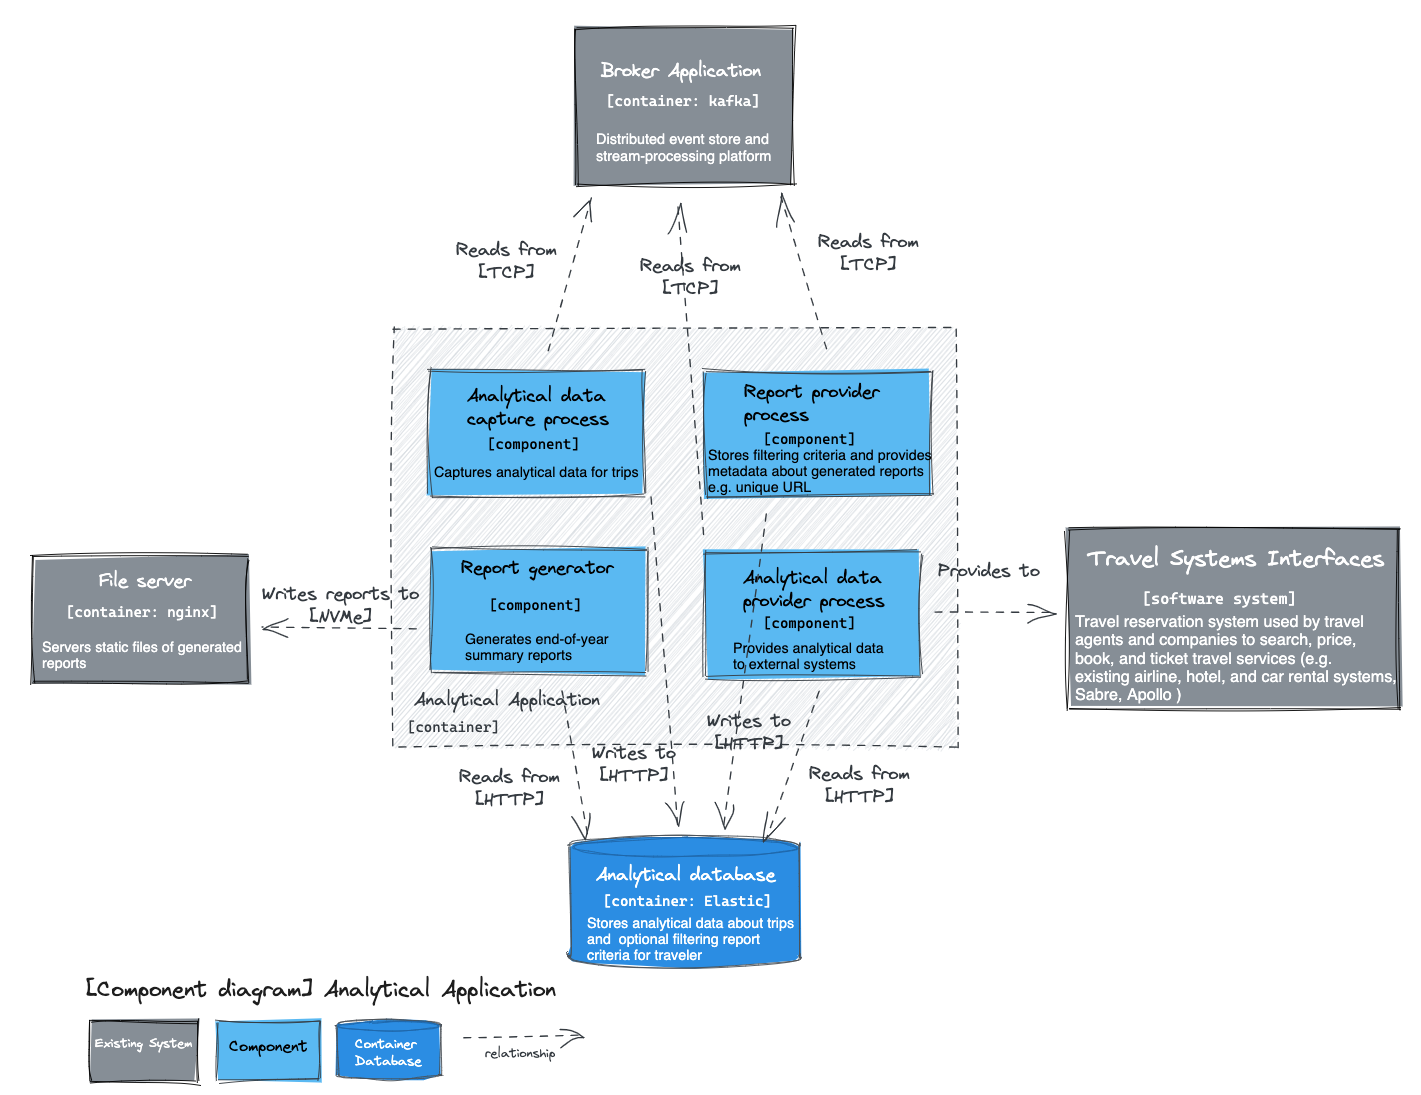
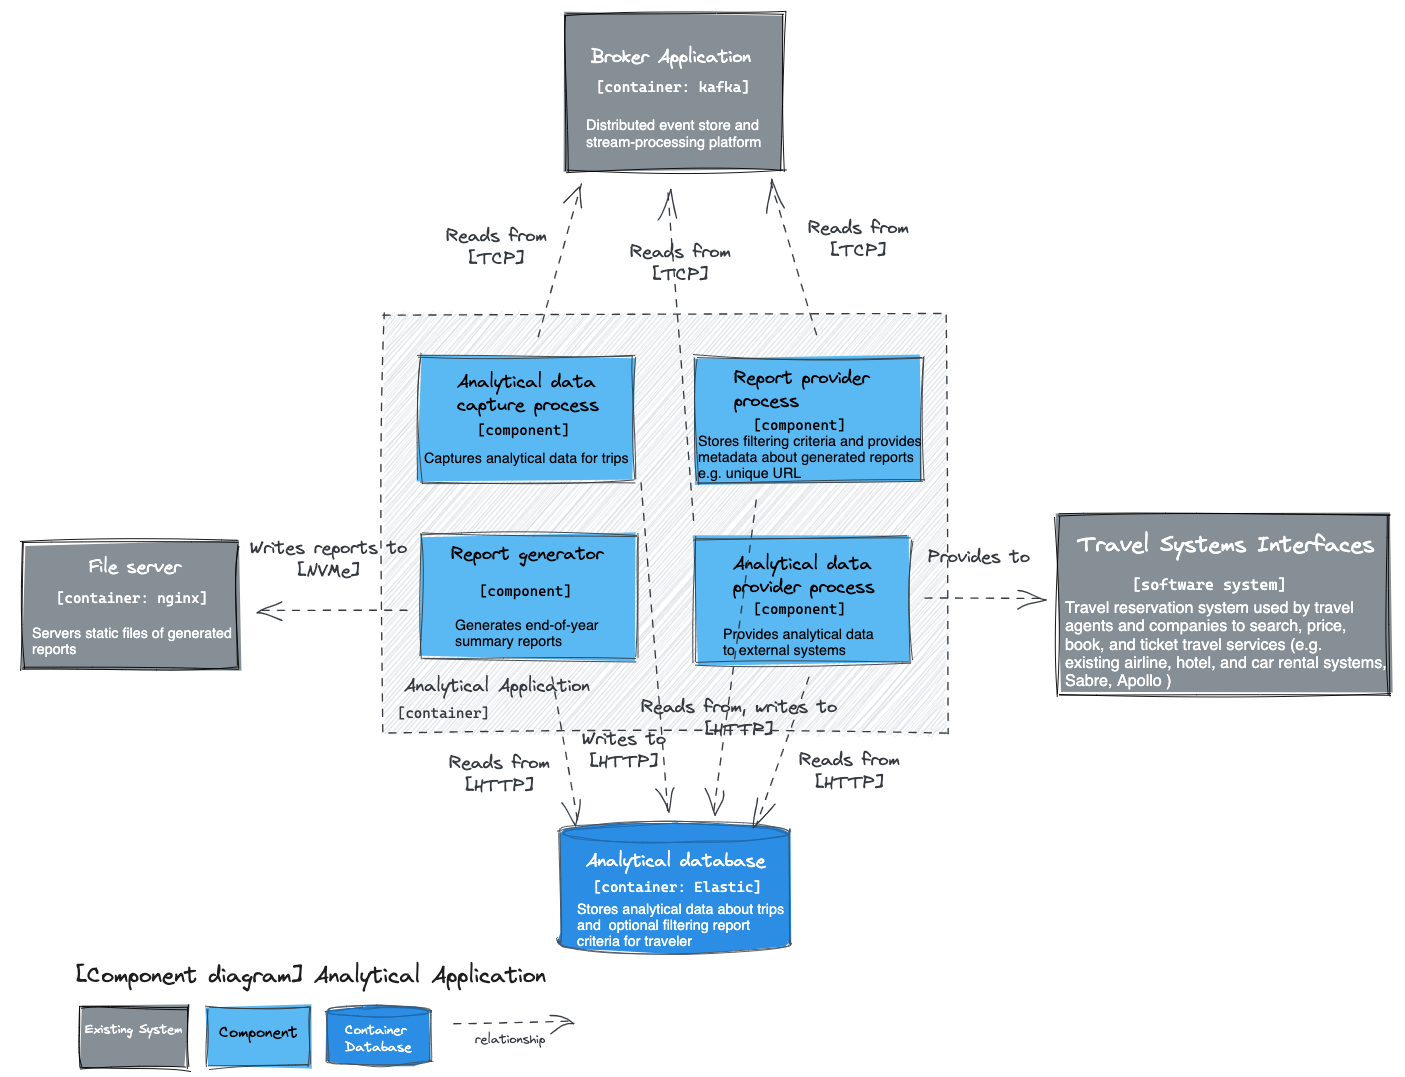
add diagrams

diff --git a/current/requirements/functional/REQ_007_generate_end-of-year_report.md b/current/requirements/functional/REQ_007_generate_end-of-year_report.md
@@ -11,4 +11,10 @@ Generate end-of-year report
 System must generates end-of-year summary reports for users with a wide range of metrics about their travel usage.  
 System must takes into consideration report generation criterias selected by user.  
 
+### Resources:
+
+#### Request processing diagram
+
+![Dynamic diagram](https://github.com/ExtravaganzaTeam/KATAS-2023/blob/main/current/requirements/functional/REQ_009_provide_analytical_data.png "a title")  
+
 [Go back](../README.md)

diff --git a/current/user_stories/traveler/US_007_get_end-of-year_report.md b/current/user_stories/traveler/US_007_get_end-of-year_report.md
@@ -8,6 +8,10 @@ When the traveler used the received link the end-of-year summary report started 
 
 ### Resources:
 
+#### Request processing diagram
+
+![Dynamic diagram](https://github.com/ExtravaganzaTeam/KATAS-2023/blob/main/current/user_stories/traveler/US_007_get_end-of-year_report "a title")  
+
 
 ### Notes
 
